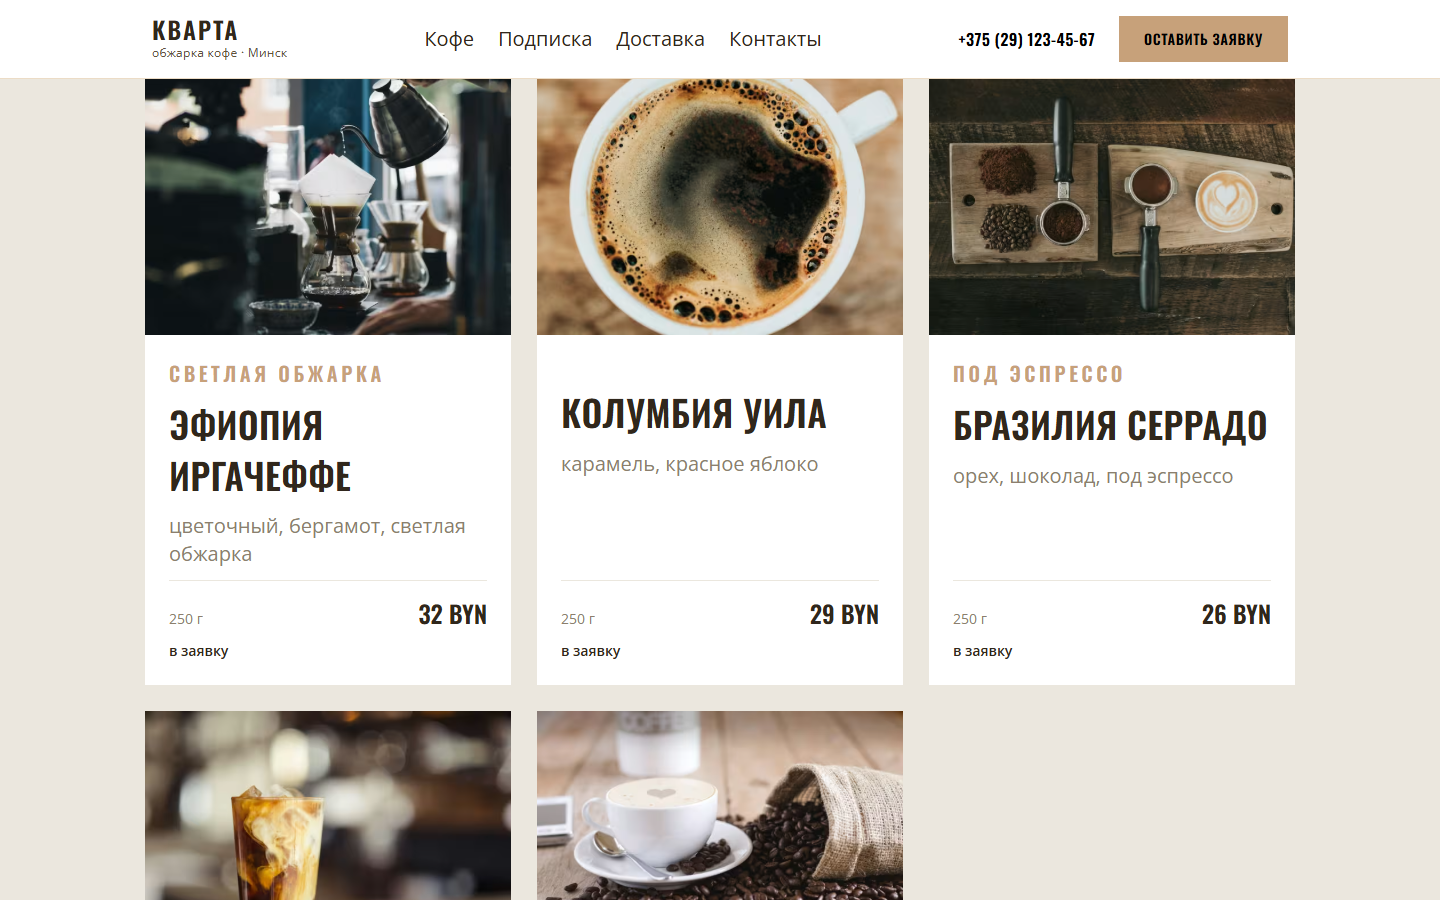
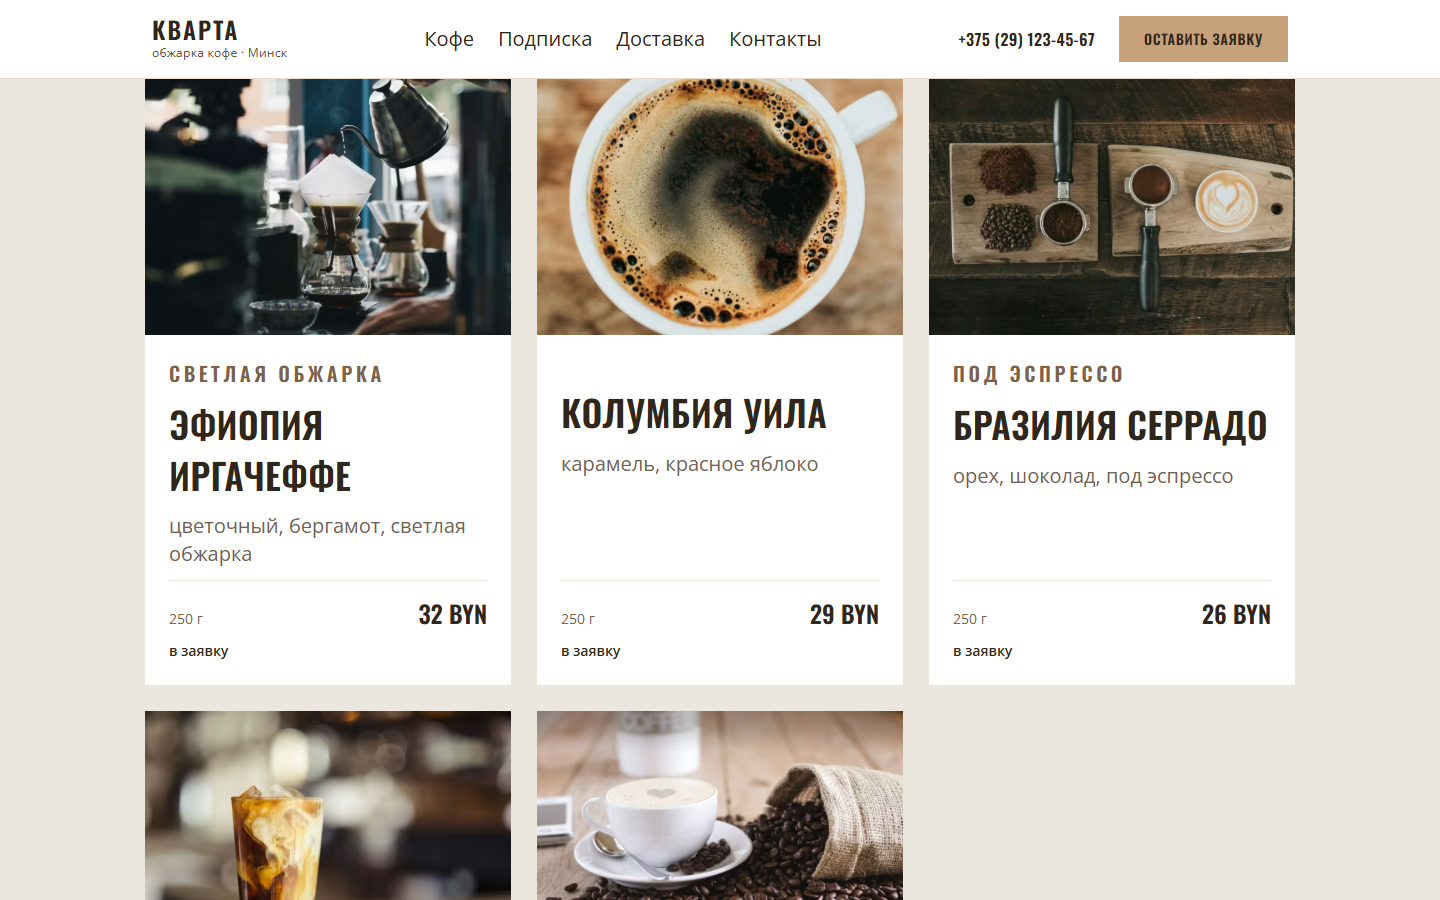
fix(canvas): читаемость фактов на тёмном фото и цвета фактов через собственный проп
Приоритетный блок цветовых утилит перебивал цвета, которые родитель задавал селектором-потомком: подписи фактов на фото стали тёмно-коричневыми. Теперь у fact-item есть проп textColor (light|dark), цвет объявляется прямым классом, значения проставлены в спецификации страницы. Скриншоты пересняты, браузерная проверка зелёная.

diff --git a/canvas/src/components/fact-item/index.jsx b/canvas/src/components/fact-item/index.jsx
@@ -2,24 +2,52 @@ import { cn } from 'drupal-canvas';
 
 /**
  * Один факт: крупное значение и подпись под ним.
- * Цвета значения и подписи задаёт родитель `fact-list` через классы
- * `fact-item-value` и `fact-item-label`; карамельная черта слева — своя.
+ *
+ * Цвет задаётся собственным пропом, а не родителем: тема подключает CSS вне
+ * слоёв, поэтому цвета приходится объявлять прямыми Utility-классами на самом
+ * элементе (они покрыты приоритетным блоком в global.css). Наследование цвета
+ * от родителя и селекторы вида `[&_.fact-item-label]` здесь ненадёжны: их
+ * перебивает либо тема, либо приоритетный блок.
  */
-const FactItem = ({ className, label, value }) => {
+
+const valueColor = {
+  light: 'text-white',
+  dark: 'text-brand-dark',
+};
+
+const labelColor = {
+  light: 'text-primary-200',
+  dark: 'text-body',
+};
+
+const FactItem = ({ className, label, textColor = 'dark', value }) => {
   return (
     <div
       className={cn(
-        'fact-item flex min-h-8 flex-col gap-1',
-        'border-s-2 border-brand/60 ps-4',
+        'fact-item flex min-h-8 flex-col gap-1 border-s-2 border-brand/60 ps-4',
         className,
       )}
     >
       {value && (
-        <p className="fact-item-value font-heading text-3xl leading-none text-brand-dark uppercase md:text-4xl">
+        <p
+          className={cn(
+            'fact-item-value font-heading text-3xl leading-none uppercase md:text-4xl',
+            valueColor[textColor] ?? valueColor.dark,
+          )}
+        >
           {value}
         </p>
       )}
-      {label && <p className="fact-item-label text-sm text-body">{label}</p>}
+      {label && (
+        <p
+          className={cn(
+            'fact-item-label text-sm',
+            labelColor[textColor] ?? labelColor.dark,
+          )}
+        >
+          {label}
+        </p>
+      )}
     </div>
   );
 };

diff --git a/docs/AI-LOG.md b/docs/AI-LOG.md
@@ -121,6 +121,22 @@ regex-синтаксис — и сценарий стал зелёным. Это
 сделать повторные попытки — и записать это в README, чтобы следующий человек
 не искал ошибку в компонентах.
 
+### 12. Лекарство оказалось хуже болезни (приоритетный блок и цвета фактов)
+
+Борясь с нелейерным CSS темы, агент добавил в `global.css` блок цветовых
+утилит с `!important`. Контраст кнопок и заголовков это починило, но сломало
+другой приём: подписи фактов красились родителем через селектор
+`[&_.fact-item-label]:text-primary-200`, а прямой класс с `!important` на самом
+элементе оказался сильнее. На тёмном фото подписи стали тёмно-коричневыми
+(`rgb(98, 81, 60)` вместо светлого).
+
+Заметили не по коду, а по замеру: скрипт
+[canvas/scripts/dev/inspect-element.mjs](canvas/scripts/dev/inspect-element.mjs)
+показал фактический вычисленный цвет элемента в живом браузере. Починка —
+перестать полагаться на наследование: у `fact-item` появился собственный проп
+`textColor`, и цвет объявляется прямым классом на элементе. Урок записан в
+README: в этом проекте наследование цвета и селекторы-потомки ненадёжны.
+
 ## Что человек решил сам (не отдано ИИ)
 
 - Выбор архитектуры: Drupal CMS + Canvas Code Components вместо Next.js,
